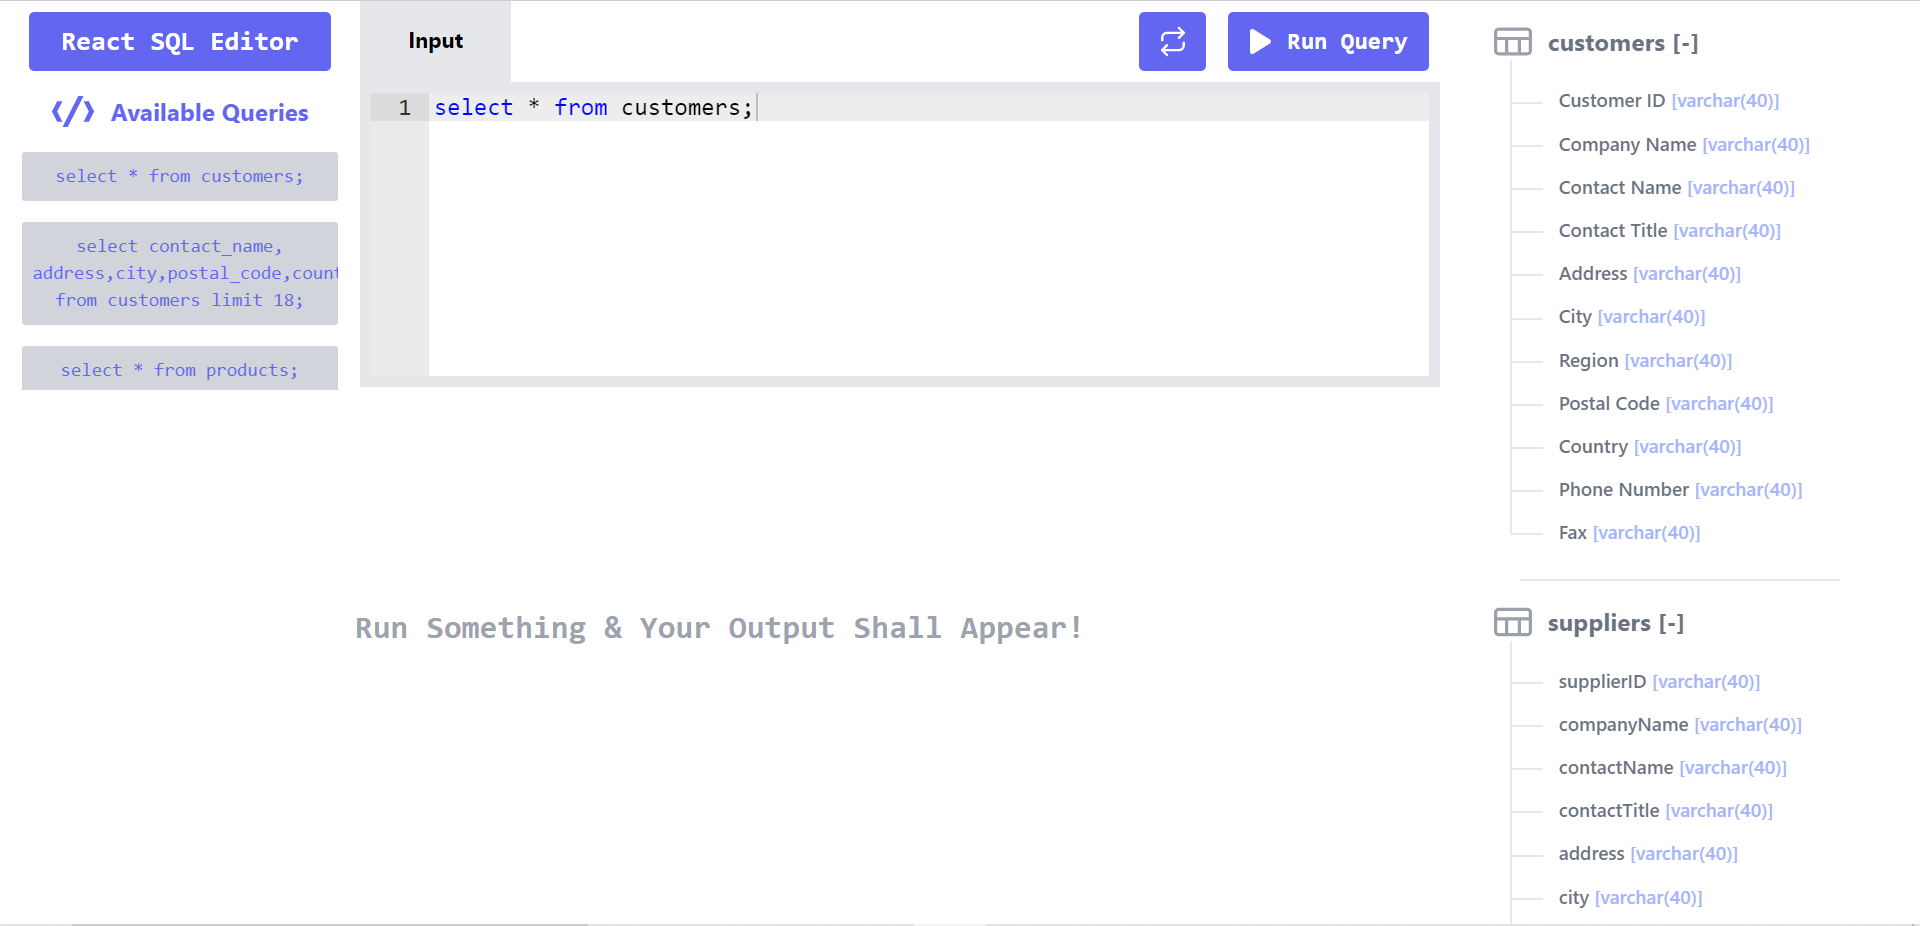
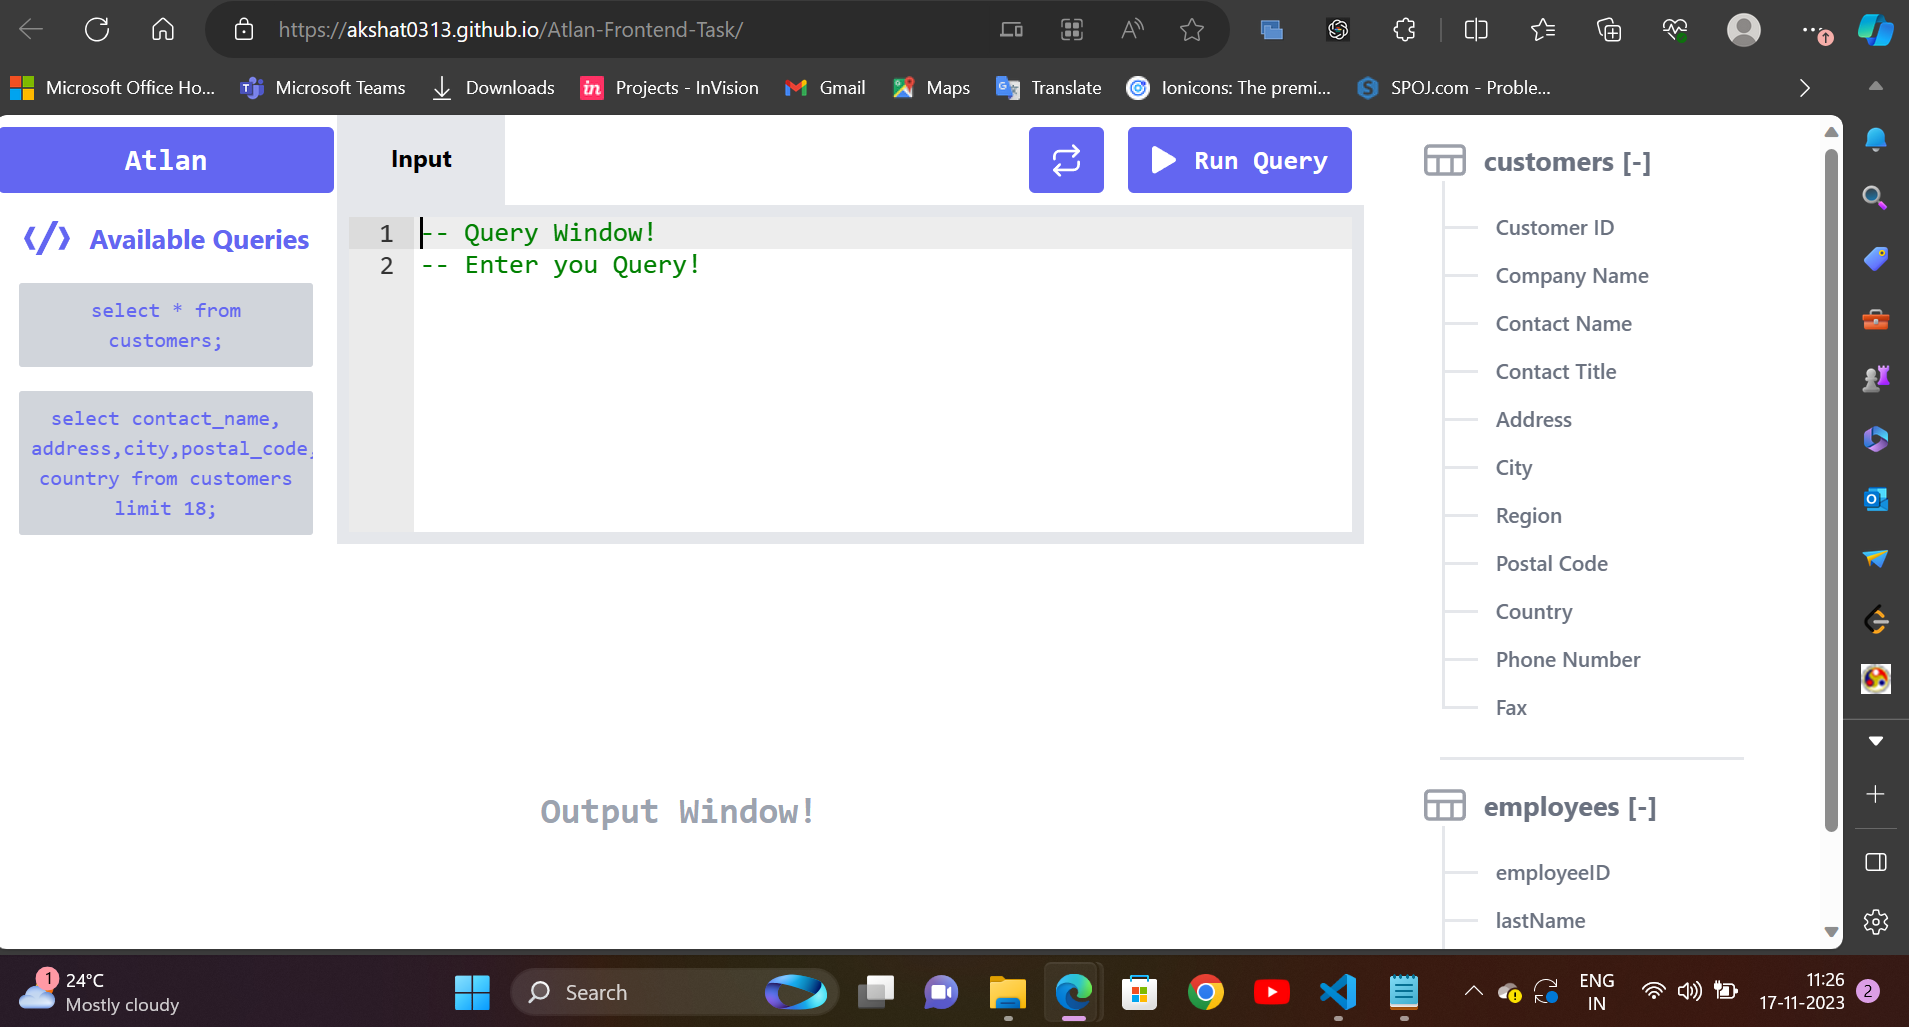
Readme updates

diff --git a/README.md b/README.md
@@ -1,1 +1,91 @@
-# Atlan Frontend Task
+# 💻 Atlan Frontend Task
+
+## 📚 Description
+
+Create, design and implement a web-based application capable of running SQL queries and displaying the results of said query. The application must include a space which accepts SQL queries in the form of user inputs, then runs the given query, and displays the result within the application..
+
+This is a Atlan Frontend Task(a SQL query editor project) built using ReactJs and TailwindCSS.
+
+## 👨💻 Live Demo
+
+<a href="https://github.com/akshat0313/Atlan-Frontend-Task" target="blank">
+<img src="https://img.shields.io/website?url=https://www.codingspace.codes&logo=github&style=flat-square" />
+</a>
+
+Try out the website : [Atlan Frontend Task](https://akshat0313.github.io/Atlan-Frontend-Task/)
+
+## 👨🔧 Tech Stack
+
+![React](https://img.shields.io/badge/react-%2320232a.svg?style=for-the-badge&logo=react&logoColor=%2361DAFB)
+![TailwindCSS](https://img.shields.io/badge/tailwindcss-%2338B2AC.svg?style=for-the-badge&logo=tailwind-css&logoColor=white)
+
+## ⚙ Dependencies
+
+- **_react-ace_**
+- **_react-csv_**
+- **_react-hot-toast_**
+- **_tailwind-scrollbar-hide_**
+
+## 👨💻 Features
+
+:white_check_mark: Users can get data of any of the Available SQL queries on the left Sidebar menu.\
+:white_check_mark: Users can view all the table column on Right Sidebar menu.\
+:white_check_mark: Users can check all the table value on clicking Table name of Right Sidebar menu.\
+:white_check_mark: Users can download the data in CSV Format in just one click.\
+:white_check_mark: Users can see query's output in milliseconds(ms).
+
+## ✍ Available SQL Queries
+
+- `select * from customers;`
+- `select * from employees;`
+- `select * from orders;`
+- `select contact_name, address,city,postal_code, country from customers limit 18;`
+
+## ⏱ Page Load Time
+
+Page Load time of this website in desktop is in the range of 0.4 s to 0.6s.
+we can check code spnappyness using GTmetrix Grade.
+
+### [web.dev Report](https://pagespeed.web.dev/)(https://pagespeed.web.dev/analysis/https-akshat0313-github-io-Atlan-Frontend-Task/l2nnec46wd?form_factor=mobile)
+
+Laptop performance view
+
+![web.dev Report](Screenshot/performance.PNG)
+
+## 🪜 Optimization steps
+
+- Used Lighthouse DevTools Extension to find the performance issues and fix them using their actionable suggestion.
+
+## Available Scripts
+
+In the project directory, you can run:
+
+### `npm install`
+
+To install all the packages in package.json. This will install all the dependencies and devDependencies.
+
+### `npm start`
+
+Runs the app in the development mode.\
+Open [http://localhost:3000](http://localhost:3000) to view it in the browser.
+
+The page will reload if you make edits.\
+You will also see any lint errors in the console.
+
+### `npm run build`
+
+Builds the app for production to the `build` folder.\
+It correctly bundles React in production mode and optimizes the build for the best performance.
+
+The build is minified and the filenames include the hashes.\
+Your app is ready to be deployed!
+
+Deployment is done using Github Pages
+
+More info [deployment](https://github.com/gitname/react-gh-pages)
+
+Note: Brownie points achieved by rendering a table with over 800 rows.
+
+## 🚀 Project Output
+
+![Homepage](Screenshot/main_project.PNG)
